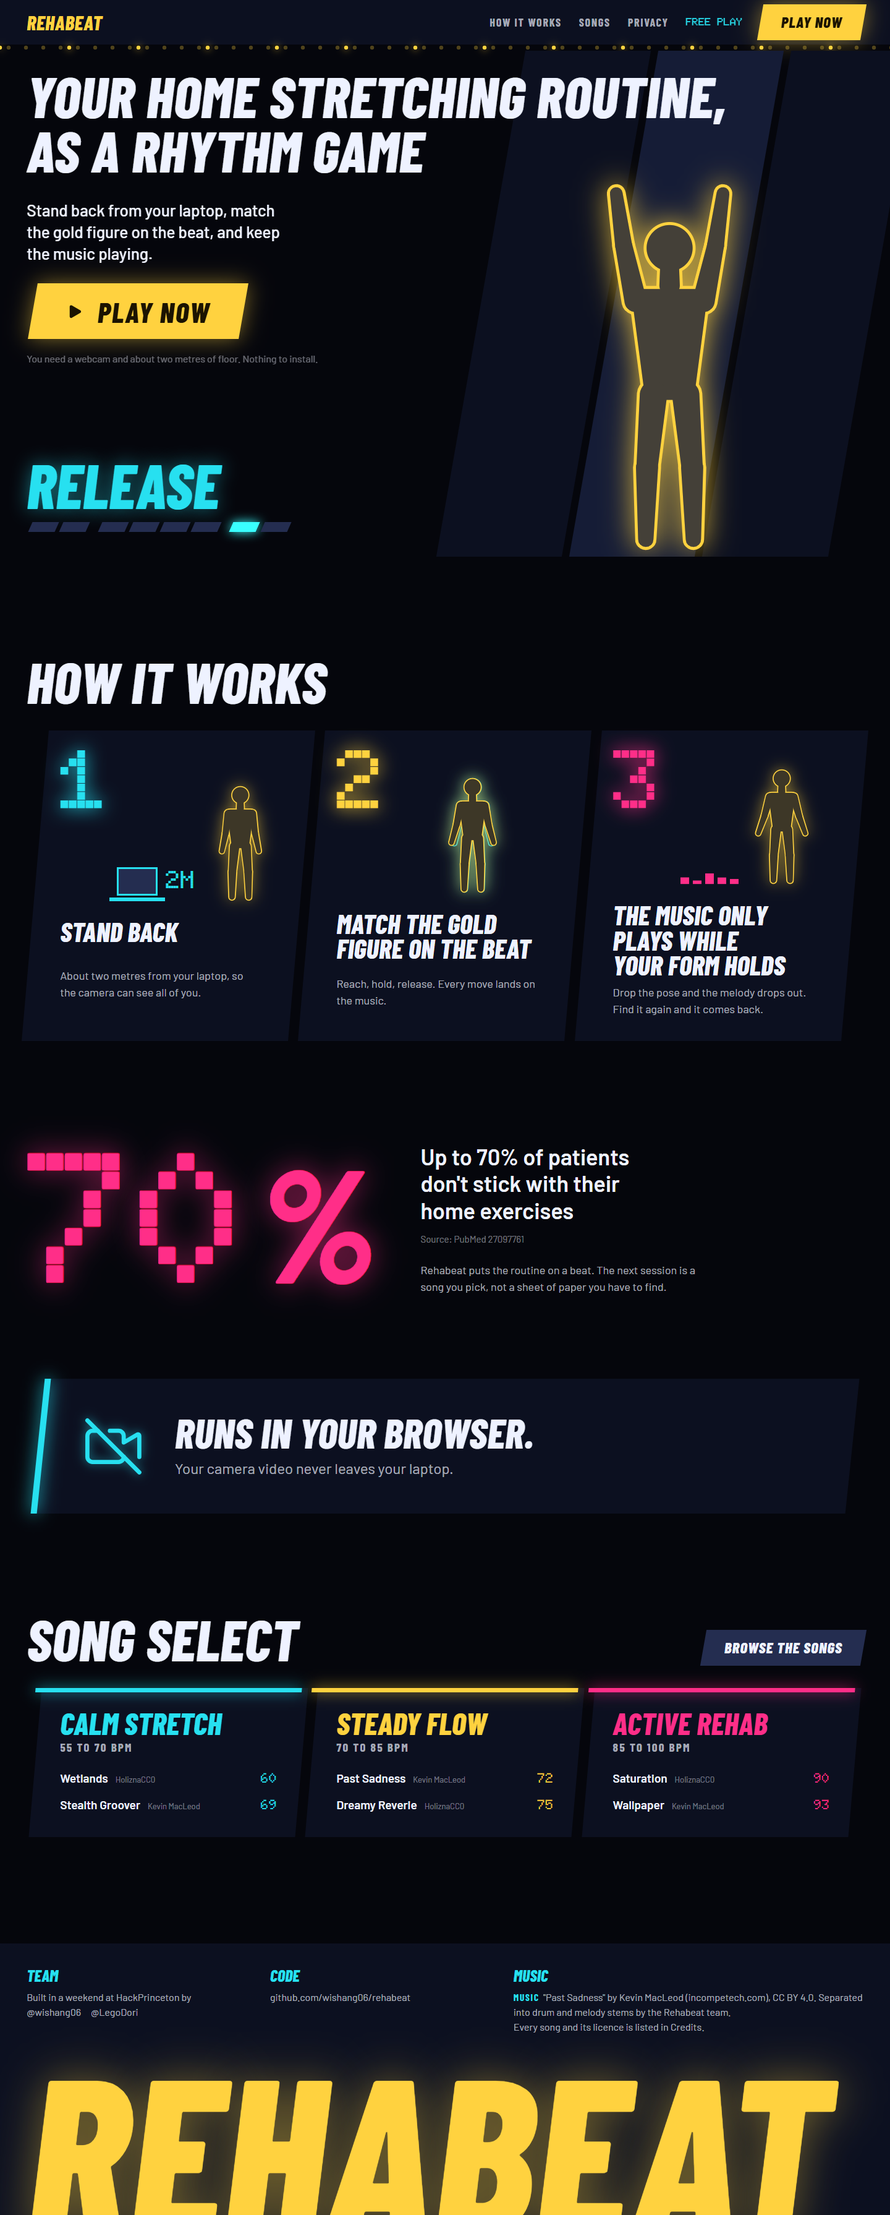
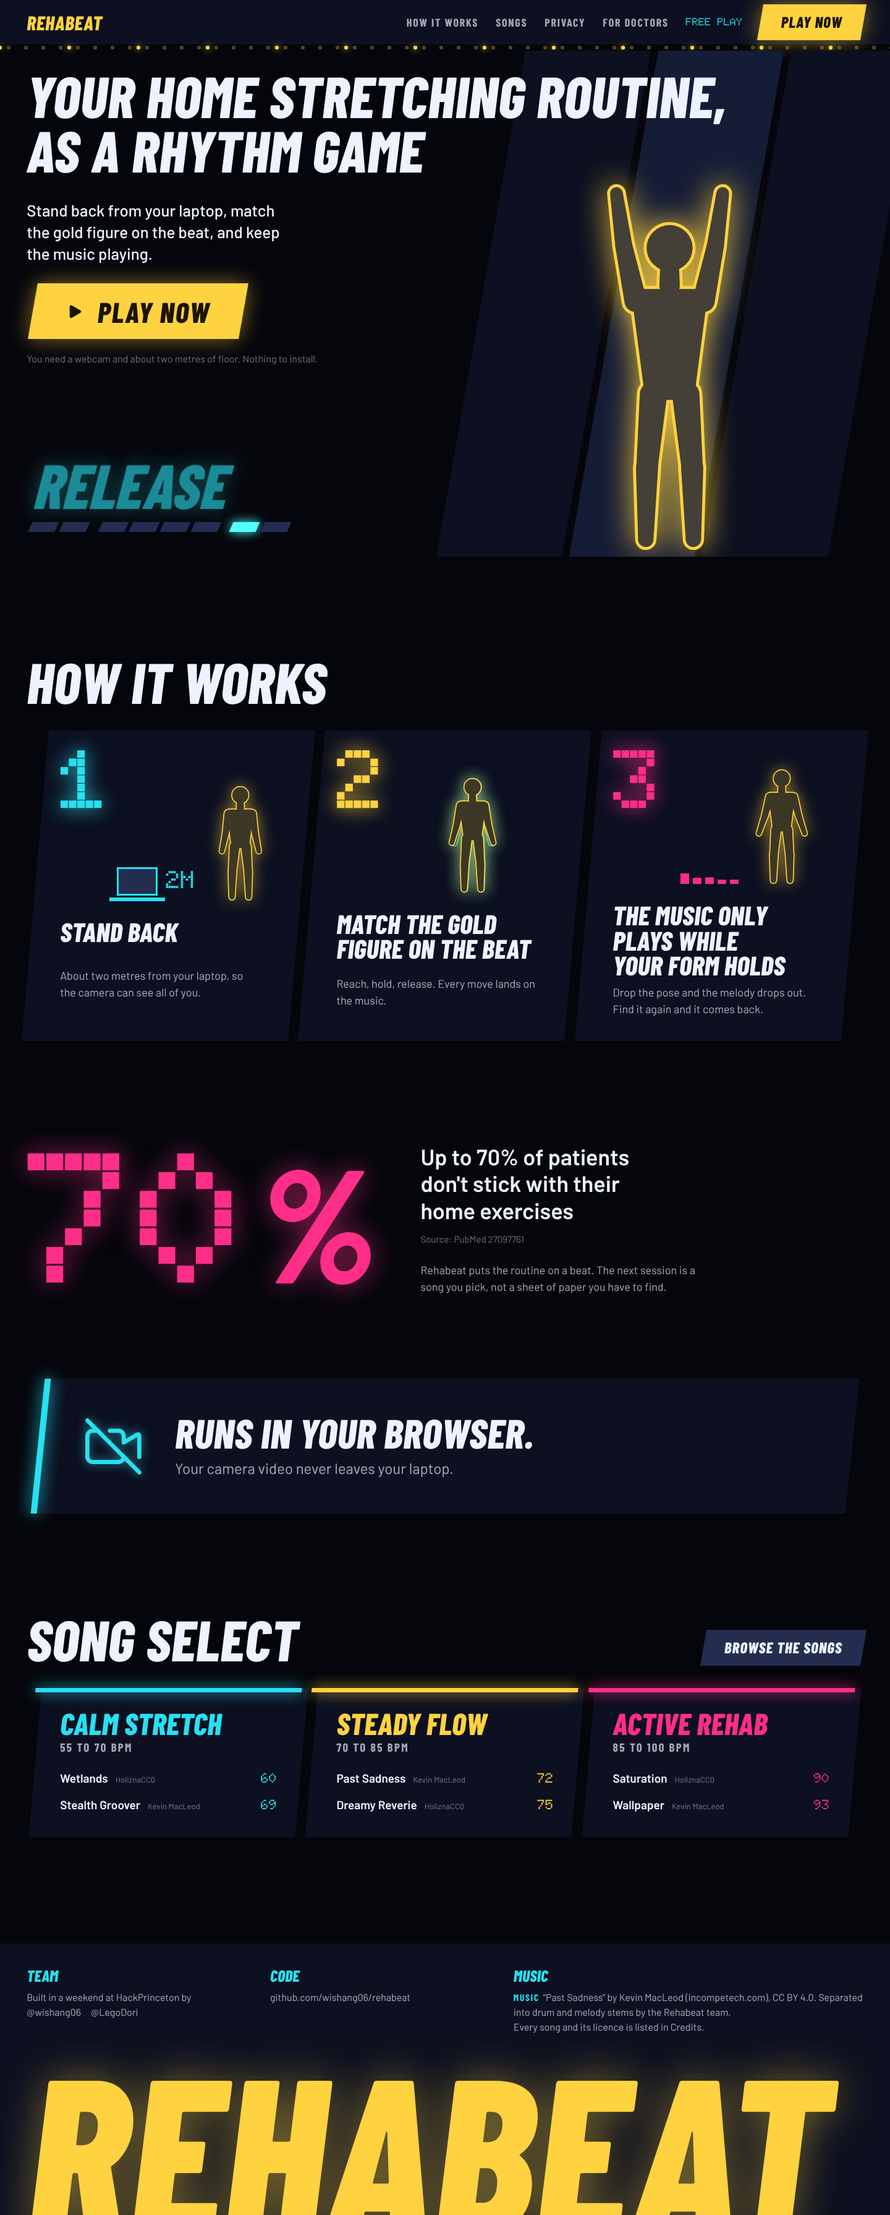
docs: the doctor loop in the README, product notes and design system; smoke check covers the demo loop
Claude-Session: https://claude.ai/code/session_01MwGDHagwVbLDVWhvJDwQRq

diff --git a/src/ui/hud/PlayHud.tsx b/src/ui/hud/PlayHud.tsx
@@ -294,7 +294,9 @@ function StepBackBanner({ frames, bodyLost, easeOff, formNote }: StepBackBannerP
       <p className="hud-banner slab" role="status" data-testid="ease-off">
         <ChevronsDown aria-hidden="true" strokeWidth={3} />
         <span className="hud-banner__word display">Ease off</span>
-        <span className="hud-banner__detail label">{easeOff}: past the range your doctor set</span>
+        <span className="hud-banner__detail label">
+          {easeOff.replace(/^Ease off your /, '')}: past the range your doctor set
+        </span>
       </p>
     );
   }

diff --git a/README.md b/README.md
@@ -2,7 +2,7 @@
 
 Rehabeat turns rehab moves into a rhythm game. The player stands in front of a webcam and matches a target pose on the beat: reach for it, hold it, release it. Hold it well and the melody comes in.
 
-It runs entirely in the browser: the camera video never leaves the laptop. The landing page is at `/` and the game is at `/play`. The design direction is written up in [`PRODUCT.md`](PRODUCT.md) and [`.interface-design/system.md`](.interface-design/system.md).
+It runs entirely in the browser: the camera video never leaves the laptop. The landing page is at `/`, the game is at `/play`, and the doctor's page is at `/doctor` (see [Doctors and programs](#doctors-and-programs)). The design direction is written up in [`PRODUCT.md`](PRODUCT.md) and [`.interface-design/system.md`](.interface-design/system.md).
 
 ## Setup
 
@@ -30,7 +30,7 @@ The first start downloads the pose model (about 6 MB) from Google's model storag
 
 ### Smoke check
 
-`npm run smoke` starts its own dev server, drives Chrome (or Edge) with a synthetic camera, and fails on any console error. It opens every catalogue in the song menu and the Credits view, picks Past Sadness, walks Calibrate and Play, opens the debug panel and runs a calibration pass. It then goes back to the menu with Esc and picks a song from another catalogue with the keyboard alone, and checks that a refused camera shows a recoverable message. Along the way it checks each song's credit on the start and Play screens, that no song's stems clip at the engine's gain, and that the loop seam is exactly one beat. Screenshots of each catalogue go to `test-results/menu-<catalogue>.png`. Options go after `--`:
+`npm run smoke` starts its own dev server, drives Chrome (or Edge) with a synthetic camera, and fails on any console error. It opens every catalogue in the song menu and the Credits view, picks Past Sadness, walks Calibrate and Play, opens the debug panel and runs a calibration pass. It then goes back to the menu with Esc and picks a song from another catalogue with the keyboard alone, and checks that a refused camera shows a recoverable message. Along the way it checks each song's credit on the start and Play screens, that no song's stems clip at the engine's gain, and that the loop seam is exactly one beat. Last, it walks the doctor loop in the demo clinic: on `/doctor` it gives You a one-move, one-round program; on `/play` it finds the program card, plays the session until it ends by itself and reads the "Sent to" strip; back on `/doctor` it finds the session; then it resets the demo clinic. Screenshots of each catalogue go to `test-results/menu-<catalogue>.png`. Options go after `--`:
 
 | Option | Effect |
 | --- | --- |
@@ -140,11 +140,110 @@ Players sign in with Google through Supabase Auth (project `rkxqtgbcendomwvrfxjf
 - **Schema:** `supabase/migrations/`. `profiles` is filled from the Google profile on sign-up, `scores` holds one row per run, and the `leaderboard` view ranks players by their best run. Row Level Security lets anyone read, and lets a signed-in player add only their own scores. Nobody can edit or delete a score from the app.
 - **Config:** `VITE_SUPABASE_URL` and `VITE_SUPABASE_PUBLISHABLE_KEY` (see `.env.example`). Without them the game runs with accounts switched off.
 
+## Doctors and programs
+
+Rehabeat has a second side for the doctor who gave the patient their exercises. It runs a loop:
+
+**prescribe → play → measure → adjust**, and round again.
+
+A doctor writes a program for a patient at [`/doctor`](http://localhost:5173/doctor). The game builds the patient's sessions from it, records every hold, and the doctor's page shows how consistently and how well the patient is doing it. The doctor changes the program, adds a note, and the patient plays the new version next.
+
+### Try it: the demo clinic
+
+Signed out, `/doctor` opens a **demo clinic** kept in this browser's `localStorage`. It needs no account and no database, so the whole loop can be shown on one laptop:
+
+1. Open `/doctor`. There are four sample patients with a few weeks of history, and a patient called **You**, who is whoever plays in this browser.
+2. Pick **You**, tick some moves, set the rounds and any limits, write a note, and press **Save and send**.
+3. Open `/play`. The title screen now has a **Your program** card. **Start today's session** plays the program; it ends by itself after the last round.
+4. The results screen says what was sent. Back on `/doctor`, You's week count, scores and problem spots have the session in them.
+
+**Reset demo clinic** on the doctor's page puts everything back. Sample history is rebuilt from today's date each time, so it is always current; it is never stored and never sent anywhere.
+
+### A program
+
+| Field | Meaning |
+| --- | --- |
+| Moves | Picked from `src/moves/moves.json`, in play order |
+| Rounds | Times through the routine in one session (1 to 10) |
+| Hold | Beats to hold every move, or each move's own |
+| Sessions a week | 1 to 7. A day counts once, however many sessions it had |
+| Weeks | Length of the program, counted from the day it was first saved |
+| Limits | Per joint: none, off, or a range (below) |
+| Note | Up to 500 characters, shown to the patient before they play |
+
+A program is never edited in place. Saving makes the next **version**, the newest version is the one in force, and each session records the version it was played under. **Start a new program** starts the week count again from today.
+
+### Limits
+
+A limit is set as **movement from the resting position**, the way it is prescribed: "raise up to 90°", "bend up to 60°". The game converts it to its own joint angles (`src/scoring/limits.ts`): a shoulder's movement is its angle, and an elbow, hip or knee's movement is 180° minus its angle.
+
+Before play, `applyPrescription` (`src/care/prescription.ts`) turns the program into ordinary moves:
+
+- a move that scores a joint that is **off** is removed;
+- a target beyond a **range** limit is set to the limit, so an overhead raise with the shoulder limited to 90° plays as a raise to shoulder height;
+- the hold length, if set, replaces each move's own.
+
+The move format and the scoring are untouched: the Play screen is simply handed different moves. The doctor's page runs the same function for its "What the patient will play" preview.
+
+During a session every range-limited joint is watched on every frame, whatever the move. Past the limit by more than `LIMIT_MARGIN_DEG` (10°) for longer than `LIMIT_PERSIST_MS` (500 ms), the HUD says **Ease off** and the hold is marked. A joint that is off is not watched; its moves are just never played. A patient's limits also apply in free play.
+
+The prompt is guidance, like the form notes. The angles are estimates from a webcam, and nothing here is a safety system.
+
+### What a session records
+
+One record per program session (`SessionRecord` in `src/care/types.ts`): when, which version, the song, rounds done and prescribed, whether it was completed, the run summary, and one entry per hold:
+
+- the score, label and timing offset;
+- for each scored joint, its target, its mean signed error over the hold, and the share of the hold it was in view;
+- the form rules flagged and the limited joints that went past their limit.
+
+Only numbers: no picture and no body landmarks. A session that ends early (Finish run, Esc or Songs) is saved as **partial** if at least one hold was scored; it does not count toward the week but still feeds the analysis. Closing the tab mid-session loses it. Free play records nothing for the doctor.
+
+### What the doctor sees
+
+All three are plain functions over the stored programs and sessions (`src/care/analysis/`), unit-tested, and each returns numbers as well as a sentence.
+
+| Analysis | What it says |
+| --- | --- |
+| Consistency | Weeks counted from the program's start; completed sessions against the number prescribed; a lamp per day; one status per patient: not started, on track, behind (this week's number can no longer be reached), no sessions for N days (3 or more), finished |
+| Quality | Mean hold score over the last seven days against the seven before, and each move's score session by session |
+| Problem spots | The last 3 sessions against the 3 before: a joint stopping short of or going past its target, a form rule flagged on a share of holds, limit breaches, arriving late, a joint out of view. Breaches come first |
+
+The thresholds are constants in `src/care/analysis/findings.ts` (`JOINT_REPORT_DEG` 8°, `FORM_REPORT_SHARE` 0.3, `LATE_REPORT_MS` 300, `VIEW_REPORT_SHARE` 0.2, `TREND_STEP` 0.2). They are first guesses and have not been tuned on real patients.
+
+### Where it is stored
+
+The doctor's page and the game talk to one interface, `CareStore` (`src/care/types.ts`), with two homes. Which one is used follows sign-in; there is no switch.
+
+| | Demo clinic | Real clinic |
+| --- | --- | --- |
+| When | Signed out, or accounts switched off | Signed in |
+| Where | This browser's `localStorage` (`rehabeat.care.v1`) | Private Supabase tables |
+| Patients | Four samples and You | The doctor's own; a patient joins with a six-character code |
+| Code | `src/care/demoClinic.ts` | `src/care/supabaseClinic.ts` |
+
+The real clinic's tables are in `supabase/migrations/20261115090000_care.sql`:
+
+- `care_patients`: a doctor's patients, each with a join code until the patient's account has joined;
+- `care_prescriptions`: program versions, insert-only;
+- `care_sessions`: sessions, insert-only, written by the patient.
+
+Unlike `profiles` and `scores`, none of it is public. Row Level Security lets a doctor read and write only their own patients and those patients' programs, and read their sessions; a patient reads their own row and its programs and adds their own sessions. A doctor cannot attach a program to an account: only the patient can, by entering the code. An account is a patient of at most one doctor. Anyone signed in can use `/doctor`; a doctor is simply someone who has added patients.
+
+**The migration has to be applied to the Supabase project before the signed-in clinic works.** Paste the file into the project's SQL editor, or run `supabase db push`. Until then a signed-in doctor sees "The clinic is not set up yet", and the demo clinic is unaffected.
+
+`supabase/tests/care_rls.mjs` applies the migration to a throwaway in-memory Postgres and checks the rules from every side (the doctor, the patient, another doctor, a stranger, a signed-out visitor):
+
+```bash
+npm install --no-save @electric-sql/pglite
+node supabase/tests/care_rls.mjs
+```
+
 ## Deployment
 
 Every push to `main` deploys automatically. The workflow in `.github/workflows/deploy.yml` runs `npm ci`, `npm test` and `npm run build`, then rsyncs `dist/` to the EC2 server at `/var/www/rehabeat`, where nginx serves it. A failing test or typecheck stops the deploy, and the site keeps the previous version. To redeploy without a push, run the workflow by hand from the Actions tab.
 
-The site has no rewrite rule, so the build writes a copy of `index.html` at `dist/play/` and `dist/hud/` (the `rehabeat-route-files` plugin in `vite.config.ts`): a reload of `/play` then finds a real file. On Vercel, `vercel.json` rewrites every route to `/index.html` instead.
+The site has no rewrite rule, so the build writes a copy of `index.html` at `dist/play/`, `dist/hud/` and `dist/doctor/` (the `rehabeat-route-files` plugin in `vite.config.ts`): a reload of `/play` then finds a real file. The doctor's page keeps the picked patient in the query string (`/doctor?patient=...`) for the same reason. On Vercel, `vercel.json` rewrites every route to `/index.html` instead.
 
 The workflow reads three repository secrets: `DEPLOY_SSH_KEY`, `DEPLOY_HOST` and `DEPLOY_KNOWN_HOSTS`. On the server that key is limited to rsync into the web root (`rrsync`), so it can't open a shell. If the server's address changes, update `DEPLOY_HOST` and `DEPLOY_KNOWN_HOSTS`.
 
@@ -244,9 +343,13 @@ src/
   songs/          Song library: types, catalogues, licences, credit lines, index and meta loading
   pose/           Camera, pose tracker, joint angles, One Euro filter, skeleton overlay
   moves/          moves.json, validation, ghost limbs for the pose glyphs
-  scoring/        Frame score, routine, scoring engine, form rules, stats
+  scoring/        Frame score, routine, scoring engine, form rules, joint limits, hold detail, stats
+  care/           The doctor loop: prescriptions, sessions, the CareStore and its two homes
+  care/analysis/  Consistency, quality and problem spots
+  doctor/         The doctor's page at /doctor (desk look) and its editor logic
   audio/          Master clock, beatmap, beat grid, click track, stems, calibration
-  ui/             Title, Calibrate, Play and Results screens, canvas overlay, beat dial, debug panel, credit strip
+  ui/             Title, Calibrate, Play and Results screens, canvas overlay, beat dial, debug panel, credit strip,
+                  the program card, the "Sent to" strip and the join-code form
   ui/menu/        Song menu: catalogue rail, song cards, previews, credits view
   ui/hud/         The play HUD as DOM, its prop types, and the /hud preview
   ui/mockFeedback.ts  A typed mock FeedbackFrame for the HUD
@@ -255,6 +358,8 @@ src/
   components/     The DOM gold figure and the shadcn/ui button
   styles/theme.css  Tailwind and the design tokens
 public/songs/     The song library (index.json and one folder per song)
+supabase/migrations/  Accounts and scores; the doctor loop's private tables
+supabase/tests/care_rls.mjs  The doctor loop's privacy rules, checked on a throwaway Postgres
 scripts/smoke.mjs Playwright smoke check
 scripts/fps.mjs   Play screen frame rate
 scripts/screens.mjs  Screenshots of every page
@@ -296,6 +401,13 @@ Every song's credit and licence is in [`public/CREDITS.md`](public/CREDITS.md) a
 
 - The landing page and the game screens were checked in Chromium at 1440 x 900 and at 390 px wide, with a synthetic camera. The play HUD has not yet been read from two metres by a real player on a real laptop.
 - XP, levels and the daily streak live in `localStorage`: they do not follow a player to another browser, and clearing site data resets them.
+- The doctor loop's signed-in clinic has not been run end to end against the real Supabase project: the smoke check has no Google sign-in, so it walks the demo clinic only. The privacy rules were checked on a local Postgres (`supabase/tests/care_rls.mjs`), and the migration still has to be applied to the project.
+- The analysis thresholds, the limit margin and the sample patients' numbers are first guesses, not tuned on real patients. Nothing in the doctor loop has been reviewed by a clinician.
+- Limits are checked against webcam angle estimates. The "Ease off" prompt is guidance and can be late, early or wrong.
+- A program session that is closed mid-song (the tab, or a reload) is lost. A session whose send failed can be retried from the results screen, but not after leaving it.
+- Anyone signed in can open `/doctor` and add patients. There is no check that a doctor is one.
+- A doctor cannot remove a patient, and a patient cannot leave a doctor, from the app.
+- The demo clinic is per browser. Clearing site data resets it.
 
 - The moves, tolerances and form-rule thresholds are placeholders and have not been tuned on real players.
 - So far the pose and scoring path has been exercised in the browser with a still photo of a person as the camera, not a moving person. Calibration (which needs real arm raises) has only been tested on synthetic frames.

diff --git a/PRODUCT.md b/PRODUCT.md
@@ -8,7 +8,20 @@ It should feel like the menus of a rhythm game, not like a health app.
 
 ## Who it is for
 
-Someone who has been given a home exercise routine and finds it hard to keep doing it. They are standing in a living room, two metres from a 13 to 15 inch screen, with their arms busy. They cannot read small text and cannot reach the keyboard mid-song.
+**The patient.** Someone who has been given a home exercise routine and finds it hard to keep doing it. They are standing in a living room, two metres from a 13 to 15 inch screen, with their arms busy. They cannot read small text and cannot reach the keyboard mid-song.
+
+**The doctor.** Whoever gave them the routine. They are sitting at a desk between appointments. They want to know two things about each patient, quickly: are they doing it, and where is it going wrong. Then they want to change the program and say something to the patient.
+
+## The loop
+
+Prescribe, play, measure, adjust, and round again. The doctor writes a program; the game builds the patient's sessions from it; every hold is measured; the doctor reads the result, changes the program and sends a note. The game is the middle of the loop, not the whole of it.
+
+## Two rooms
+
+The game and the doctor's page are for two different rooms, so they are set differently.
+
+- **The game is Attract Mode**, read from two metres. A patient with a program gets one card on the title screen and one strip on the results screen, in the game's own style. A player with no program sees no difference.
+- **The doctor's page is the desk look**: the same colours and typefaces, upright and flat, at reading size, with plain numerals. It should feel like a working tool that belongs to the same product, not like the game and not like a hospital system.
 
 ## What every screen has to do
 
@@ -35,6 +48,12 @@ The full token set, type scale and component rules are in [`.interface-design/sy
 
 No testimonials, user counts or outcome numbers. No claims such as "clinically proven" or "physio-approved". The one statistic on the landing page ("Up to 70% of patients don't stick with their home exercises") links to its source.
 
+The doctor loop adds a rule: **nothing shown to a patient reads as a medical or safety guarantee.** The angles are estimates from a webcam. A limit prompt says "Ease off", never "unsafe" or "stop"; a finding says what was measured ("right shoulder stops 14° short"), never what it means for the injury. The advice is the doctor's, in the doctor's own words. The page does not say the doctor is verified, because it does not check.
+
 ## Privacy
 
-Rehabeat runs in the browser. The camera video never leaves the laptop. Progress (XP, level, daily streak) is kept in `localStorage`. Signing in is optional and only saves scores to the leaderboard.
+Rehabeat runs in the browser. The camera video never leaves the laptop. Progress (XP, level, daily streak) is kept in `localStorage`. Signing in is optional. Signed in, a finished run's score goes on the leaderboard.
+
+A patient who has joined a doctor also sends that doctor each program session: scores, joint angles, form flags and timing. Never the picture, and never body positions. Only that patient and that doctor can read them. The results screen says what was sent, every time.
+
+The demo clinic on the doctor's page (sample patients, and "You") is kept in this browser only and is sent nowhere.

diff --git a/.interface-design/system.md b/.interface-design/system.md
@@ -87,6 +87,21 @@ Libraries: GSAP (with ScrollTrigger) for the landing page loop and reveals and t
 | Step back | Two words on a pink slab, large enough to read from two metres. |
 | Grade | One display letter filling a slanted panel, with three stars under it. |
 
+## Desk look
+
+The doctor's page (`/doctor`, `src/doctor/doctor.css`) is read at a desk, not from two metres, so it keeps the palette and the typefaces and drops the cabinet.
+
+- **Upright and flat.** No slant: no `.slab`, no skewed buttons. Barlow Condensed 700, upright, for names and headings. No italic display type.
+- **Plain numerals.** Barlow 600 with `tabular-nums`. No LED digits: the doctor reads numbers in sentences and tables, not at a glance across a room.
+- **Reading size.** Text at 15 to 16 px, headings to 30 px. Hit areas still at least 44 px on the controls that are used most.
+- **The same colours, meaning the same things.** Gold is the one primary action ("Save and send"), the selected patient, and a limit that is set. Cyan is labels, information, a session done, and a finding that is improving. Pink is a warning: a limit breach, a week that ended short, a patient gone quiet, a finding getting worse.
+- **Tone steps, not lines**, as everywhere. Panels are `--color-deck` on `--color-void`; inputs are `--color-void` on a panel.
+- **Lamps are still the only circles**: one per day in the week grid. Lit cyan for a session done, a cyan ring for one that ended early, a dashed gold outline for today.
+- **Nothing glows** except a lit lamp. There is no motion on the page.
+- Two columns from 860 px wide, one below. No horizontal scroll at 390 px.
+
+The patient-facing pieces of the doctor loop (the program card on the title screen, the "Sent to" strip on the results screen, the "Ease off" banner on the HUD) are in the game, so they are Attract Mode, not the desk look.
+
 ## Screens
 
 | Route | Screen | Notes |
@@ -98,3 +113,4 @@ Libraries: GSAP (with ScrollTrigger) for the landing page loop and reveals and t
 | `/play` | Play | The HUD (`src/ui/hud`) over the camera and canvas |
 | `/play` | Results | Grade, stars, points, Perfect / Good / Miss, best combo, XP |
 | `/hud` | HUD preview | The HUD fed by a mock frame, for design work and screenshots |
+| `/doctor` | Doctor | Desk look. Patients, consistency, problem spots, the program and limits editors, the note |
